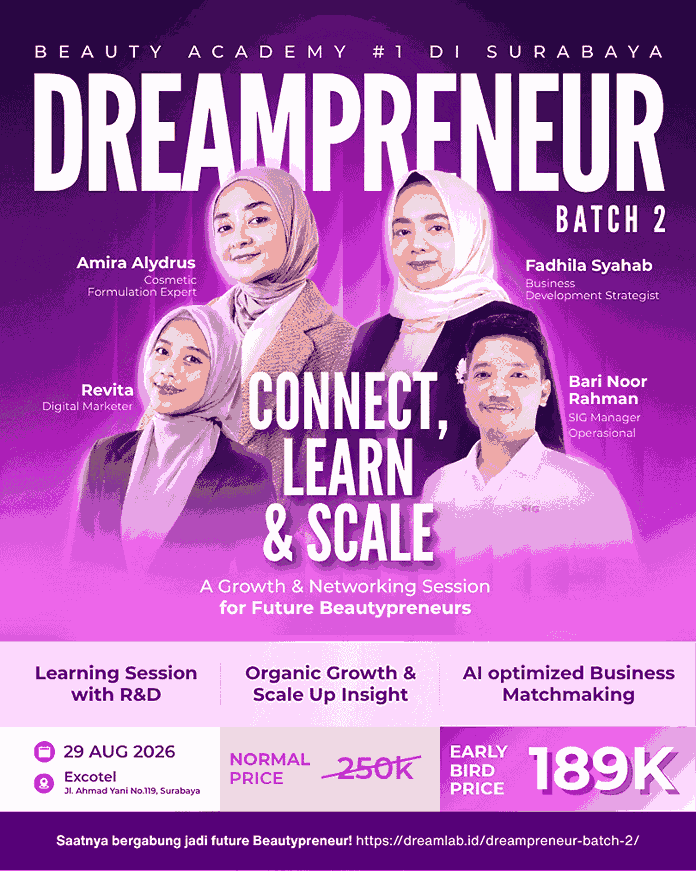
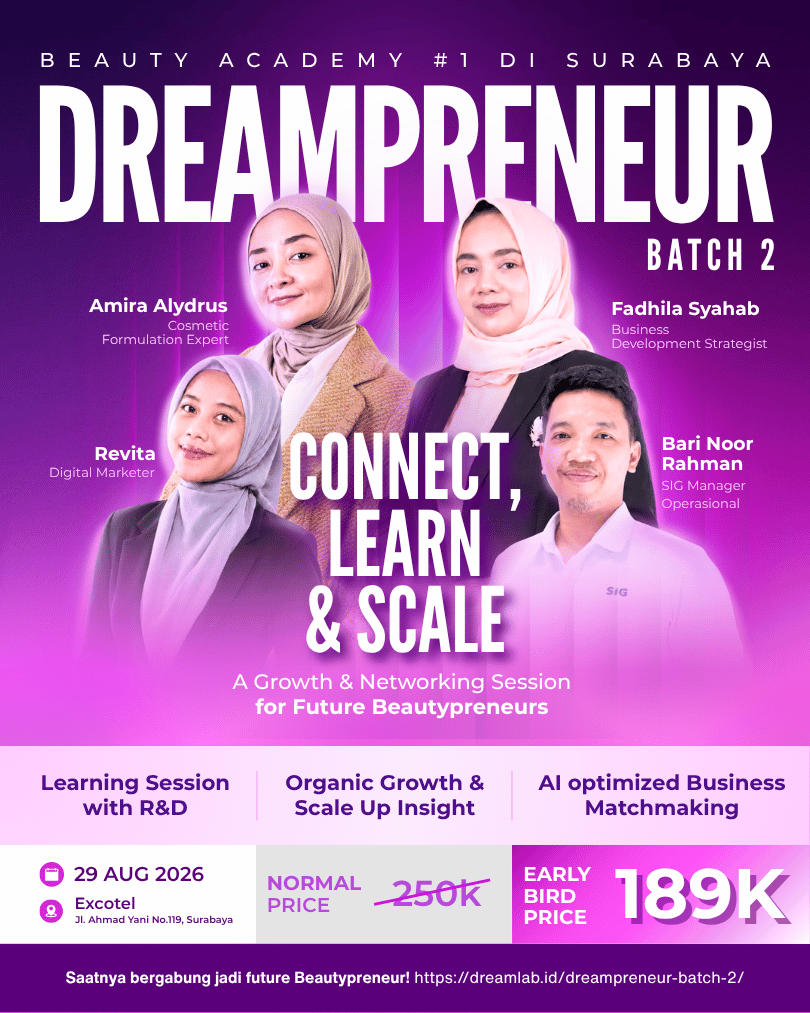
fix(dreampreneur): ganti flyer resolusi lebih tinggi (810x1013) agar tidak blur

diff --git a/src/components/dreampreneur/DreampreneurLanding.tsx b/src/components/dreampreneur/DreampreneurLanding.tsx
@@ -418,8 +418,8 @@ export default function DreampreneurLanding() {
                 <Image
                   src="/assets/images/dreampreneur-batch-2/flyer.png"
                   alt="Pembicara Dreampreneur Batch 2 — para praktisi industri kecantikan"
-                  width={696}
-                  height={871}
+                  width={810}
+                  height={1013}
                   sizes="(max-width: 1024px) 100vw, 400px"
                   className="w-full h-auto object-cover"
                 />

diff --git a/src/app/dreampreneur-batch-2/page.tsx b/src/app/dreampreneur-batch-2/page.tsx
@@ -19,8 +19,8 @@ export const metadata: Metadata = {
     images: [
       {
         url: 'https://dreamlab.id/assets/images/dreampreneur-batch-2/flyer.png',
-        width: 696,
-        height: 871,
+        width: 810,
+        height: 1013,
         alt: 'Dreampreneur Batch 2 — Beauty Academy di Surabaya',
       },
     ],
